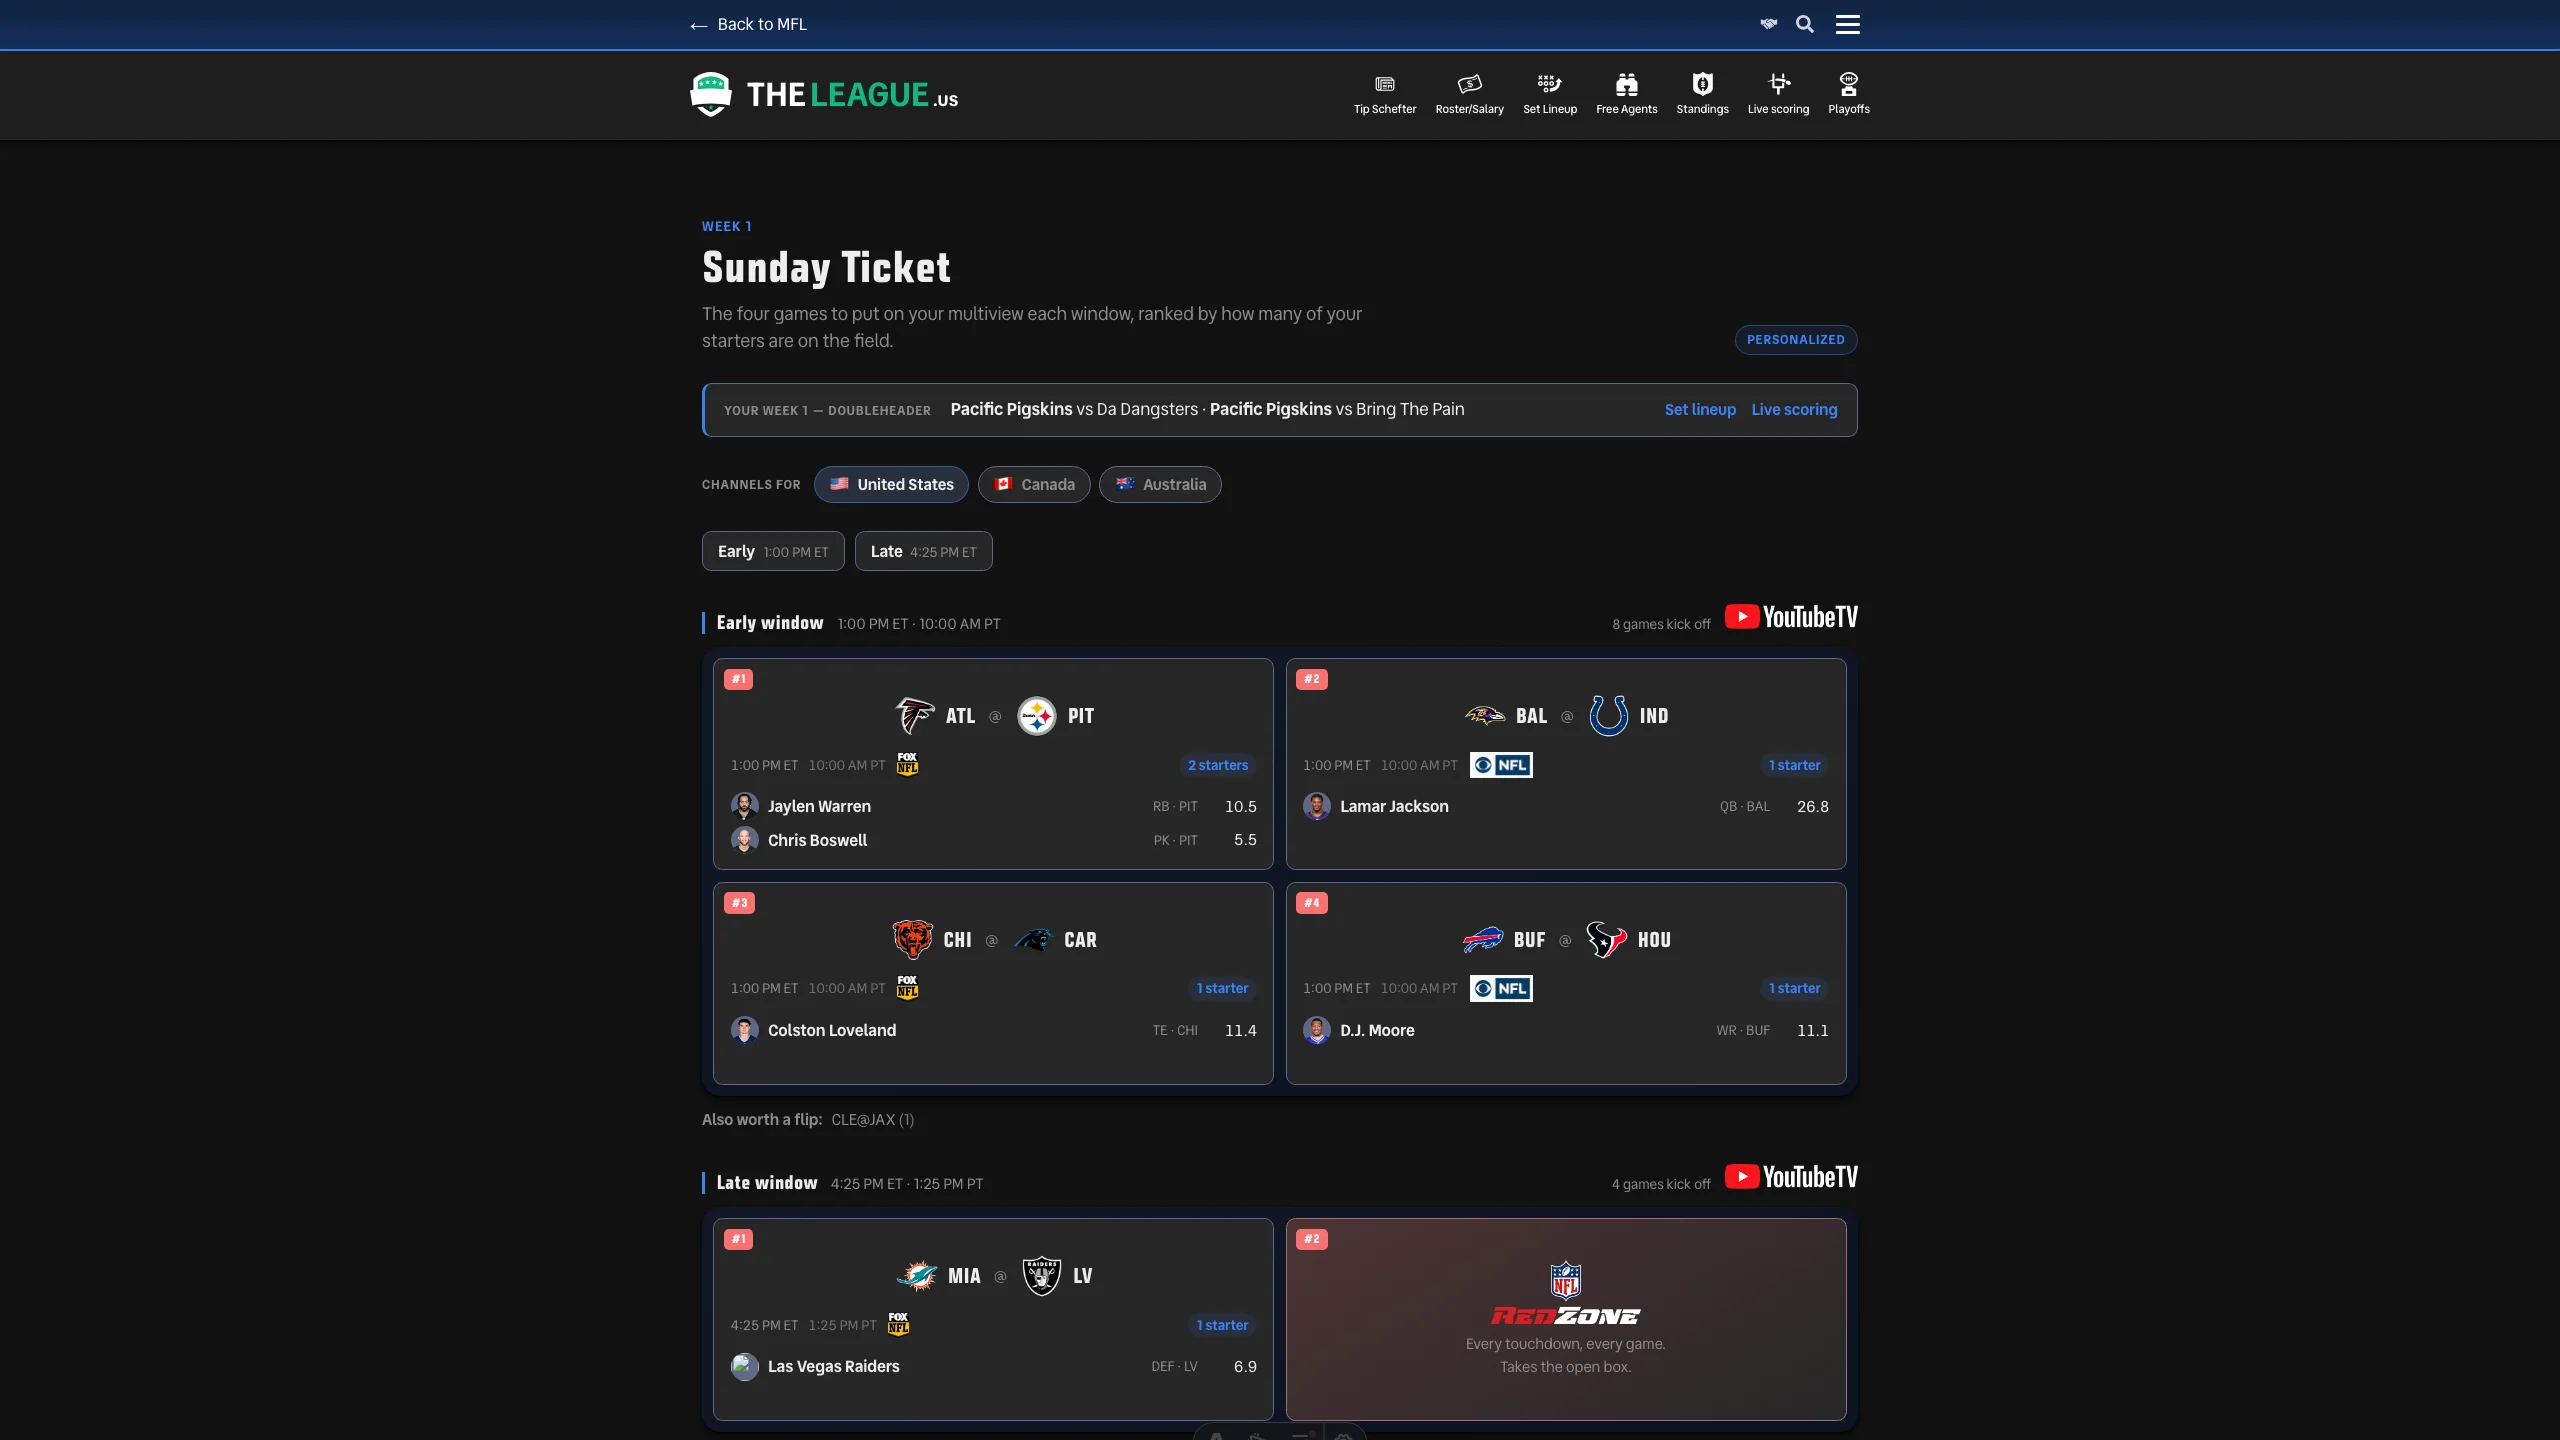
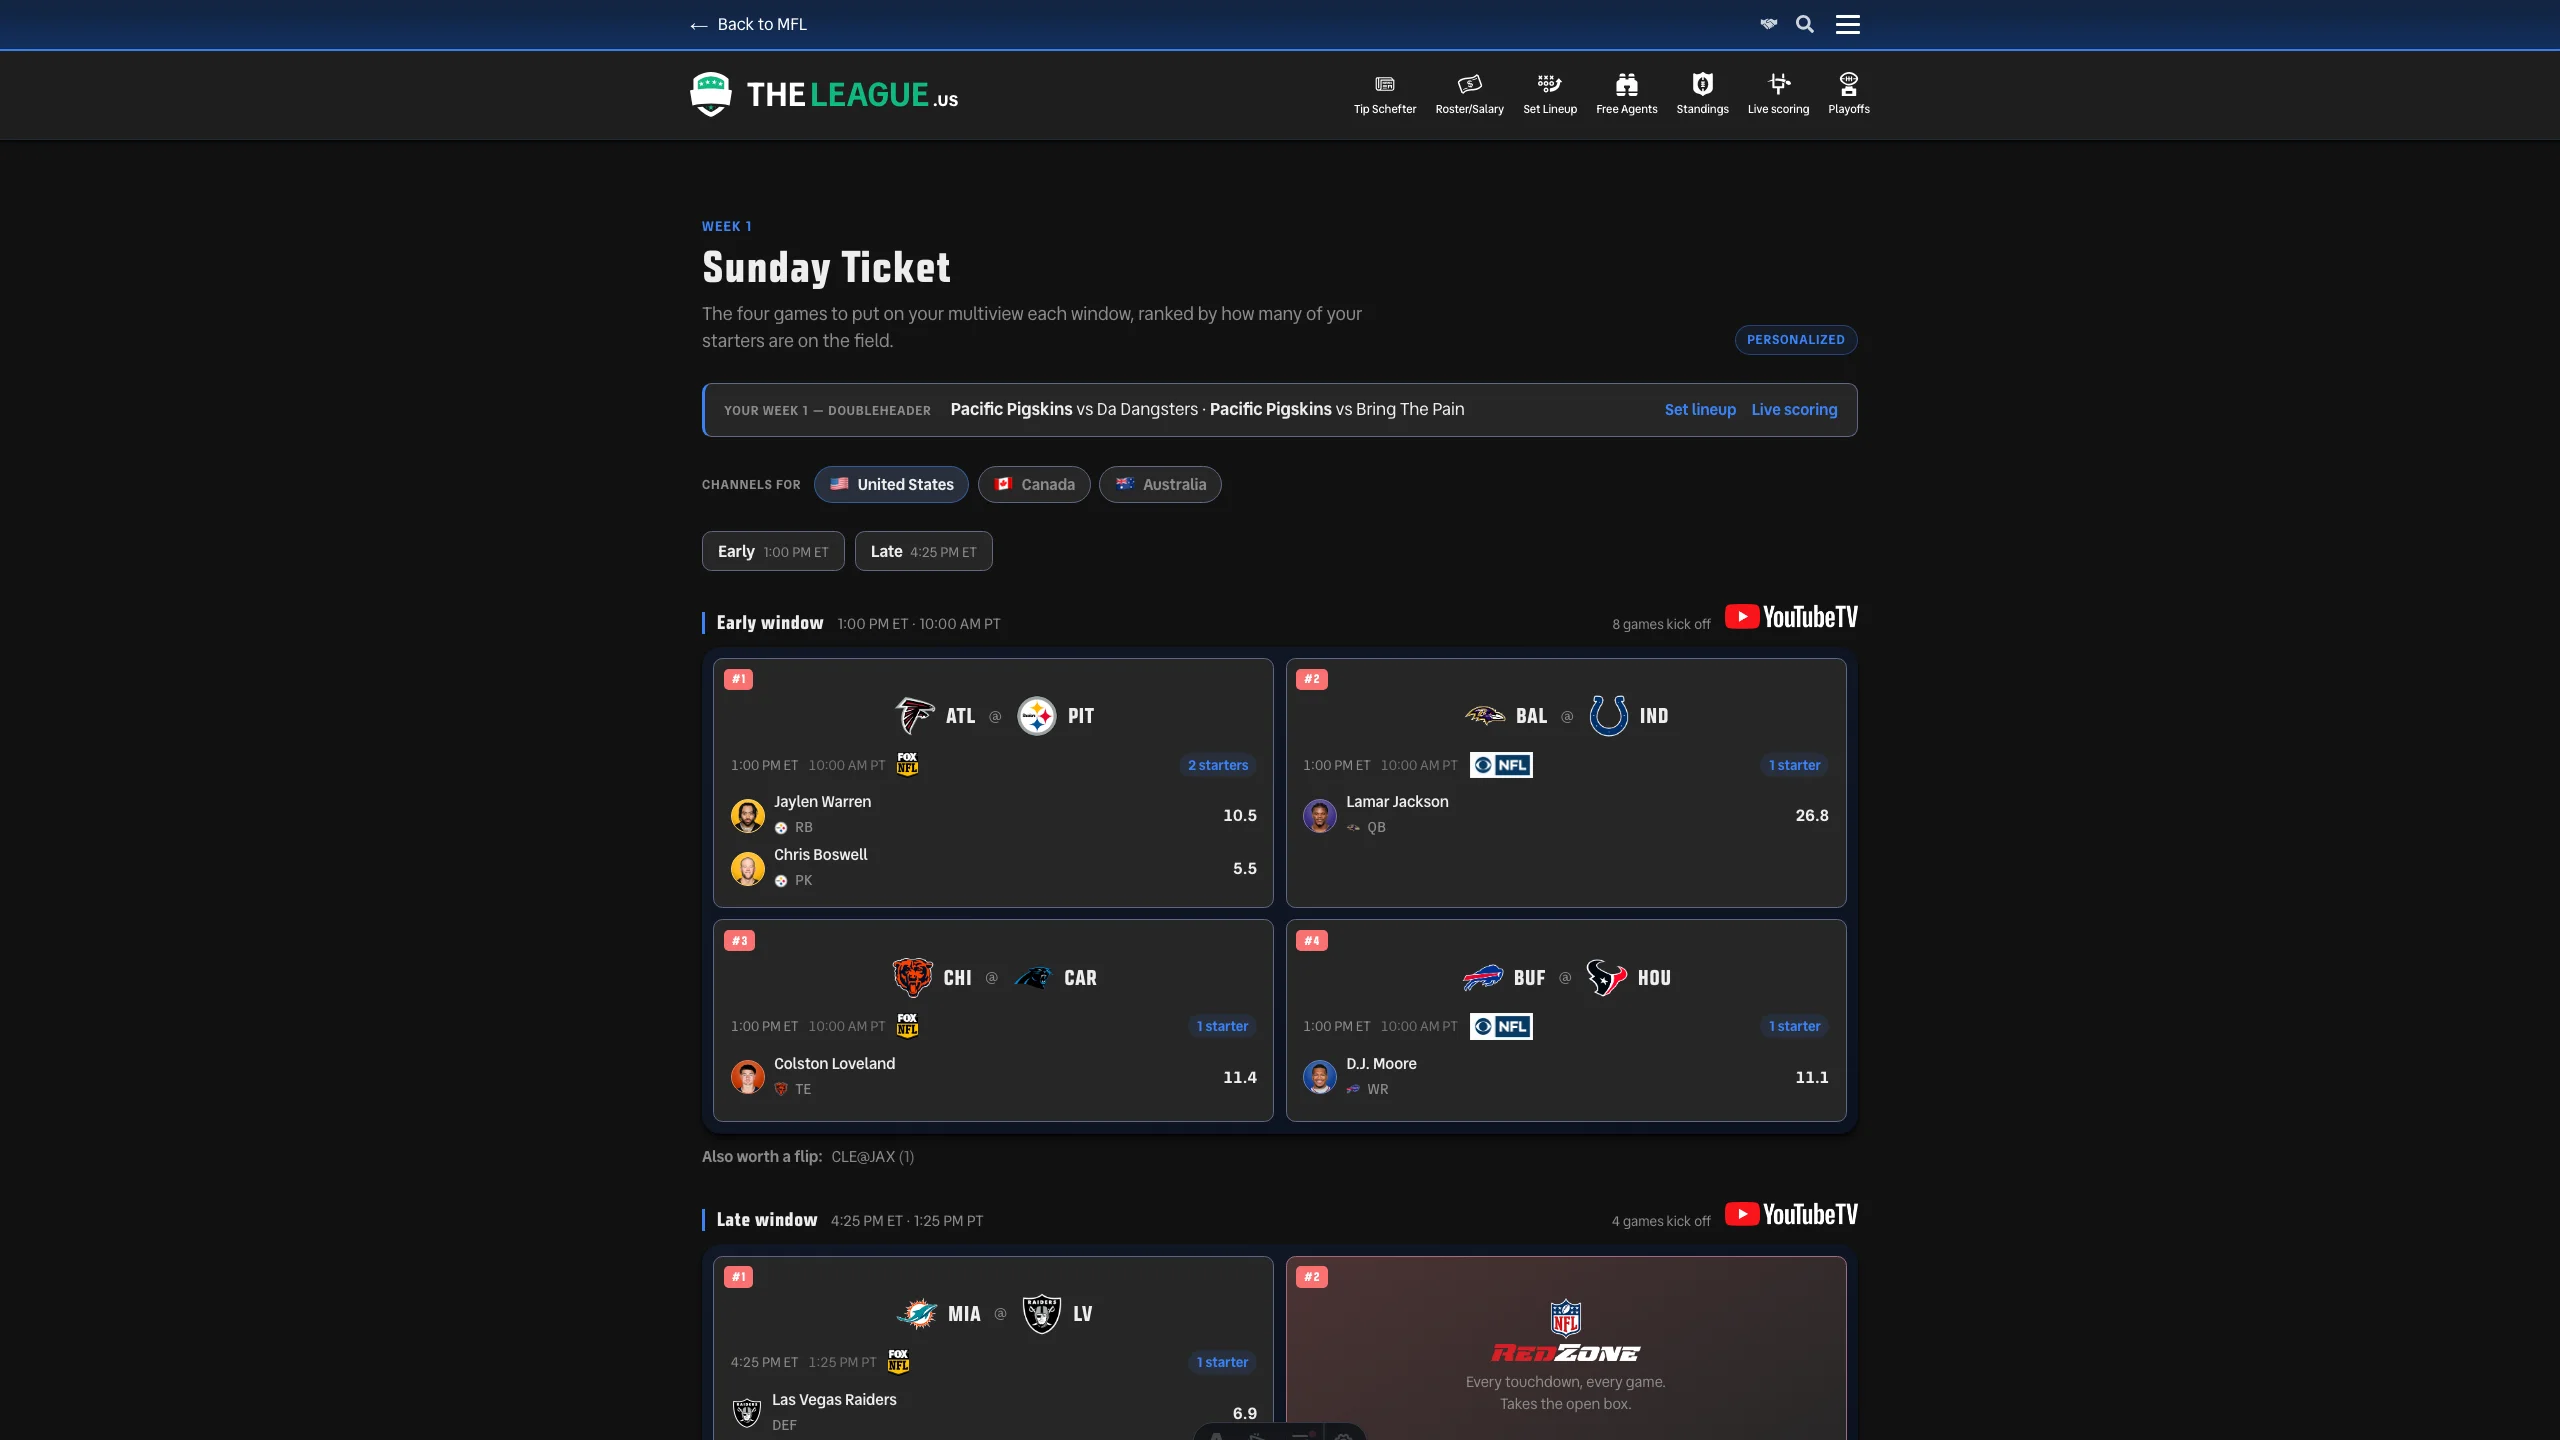
Sunday Ticket: player rows are the standard PlayerCell
The boxes listed players with a hand-rolled avatar/name/position row. They
now render the site's PlayerCell (compact) — headshot on the team-color
chip with the luminance floor, position with the team mark beneath, DEF rows
wearing the team logo, the MFL-photo fallback chain — with the league's
projection beside it. One lockup across rosters, lineups, free agents and
this board; the story inherits player-cell.css from preview.ts already.

Changed region(s): [[0.2812, 0.5312, 0.7188, 1.0], [0.5, 0.8125, 0.7188, 1.0], [0.4688, 0.9062, 0.5, 0.9688]]

diff --git a/src/styles/sunday-ticket.css b/src/styles/sunday-ticket.css
@@ -285,14 +285,12 @@
 }
 .st-box__franchise { font-weight: normal; letter-spacing: 0; text-transform: none; }
 .st-box__unset { font-weight: normal; letter-spacing: 0; text-transform: none; font-style: italic; }
-.st-box__players { list-style: none; margin: 0; padding: 0; display: flex; flex-direction: column; gap: 0.3rem; }
-.st-box__player { display: grid; grid-template-columns: 28px minmax(0, 1fr) auto auto; align-items: center; gap: 0.5rem; font-size: 0.85rem; }
-.st-box__headshot { width: 28px; height: 28px; border-radius: 50%; object-fit: cover; background: var(--content-border); }
-.st-box__headshot--blank { display: inline-block; }
-.st-box__name { color: var(--page-text); font-weight: var(--font-weight-bold); overflow: hidden; text-overflow: ellipsis; white-space: nowrap; }
-.st-box__pos { color: var(--content-text-muted); font-size: 0.72rem; white-space: nowrap; }
-.st-box__proj { font-variant-numeric: tabular-nums; color: var(--page-text); font-size: 0.82rem; min-width: 2.6rem; text-align: right; }
-.st-box__more { font-size: 0.72rem; color: var(--content-text-muted); padding-left: calc(28px + 0.5rem); }
+.st-box__players { list-style: none; margin: 0; padding: 0; display: flex; flex-direction: column; gap: 0.35rem; }
+/* One standard PlayerCell (compact) with the league's projection on the right. */
+.st-box__player { display: flex; align-items: center; justify-content: space-between; gap: 0.6rem; min-width: 0; }
+.st-box__player .player-cell { min-width: 0; flex: 1; }
+.st-box__proj { font-variant-numeric: tabular-nums; color: var(--page-text); font-size: 0.85rem; font-weight: var(--font-weight-bold); min-width: 2.6rem; text-align: right; flex: none; }
+.st-box__more { font-size: 0.72rem; color: var(--content-text-muted); padding-left: 2.6rem; }
 
 /* RedZone: the one box that is a channel, not a game. */
 .st-box--redzone {
